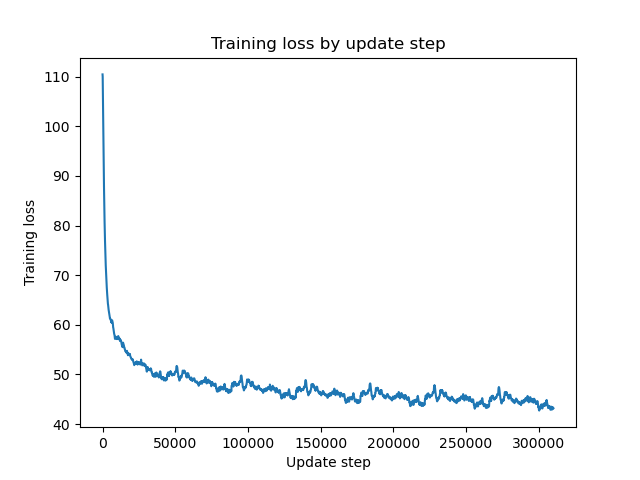
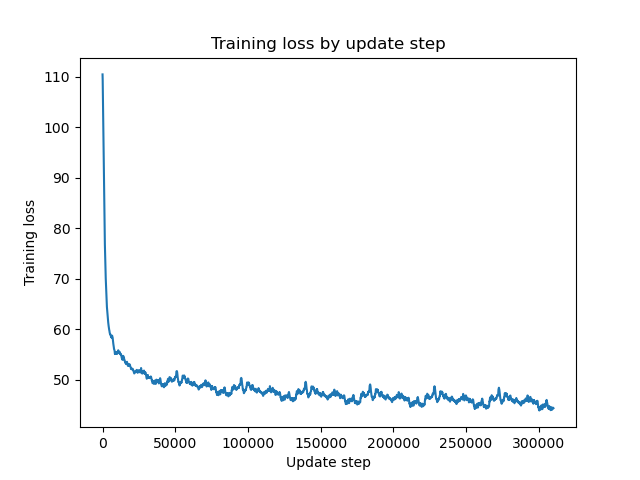
muchlowerLOSSnowprogress

diff --git a/Assignment4.py b/Assignment4.py
@@ -31,6 +31,7 @@ def createmappingfunc(file):
 
 
 def OneHotEncoding(data, mymap,begin, end):
+
     K = len(mymap)
     N = end - begin
 
@@ -44,6 +45,18 @@ def OneHotEncoding(data, mymap,begin, end):
 
 
     return EncodedData
+
+
+def softmax(x):
+    """
+    Parameters:
+        x: matrix to be transformed
+
+    Returns:
+        softmax transformation
+    """
+    a = np.exp(x - np.max(x, axis=0))
+    return a / a.sum(axis=0)
 
 
 class RNN:
@@ -61,6 +74,7 @@ class RNN:
         self.U = np.random.normal(0, 1, size = (self.m,self.K)) * sig
         self.W = np.random.normal(0, 1, size=(self.m, self.m)) * sig
         self.V = np.random.normal(0, 1, size=(self.K, self.m)) * sig
+
 
 
     def eval_RNN(self,h0,x0):   #should be correct
@@ -82,9 +96,8 @@ class RNN:
         h_t = np.tanh(a_t)                                                                        #CORRECT
         o_t = V @ h_t + c                                                                         #CORRECT
 
-        a = np.exp(o_t - np.max(o_t, axis=0))
-        p_t = a / a.sum(axis=0) #softmax
-        p_t = np.reshape(p_t, (p_t.shape[0], 1))
+
+        p_t = softmax(o_t)
 
 
 
@@ -147,12 +160,14 @@ class RNN:
 
 
             grad_W += grad_a[t].T @ h[t - 1].T  # (m,m)
-            grad_U += grad_a[t].T @ X_chars[:, t].reshape(X_chars.shape[0], 1).T  # (m,K)
+
+            grad_U += (grad_a[t].T) @ (X[:, t].reshape(X.shape[0], 1).T)  # (m,K)
             grad_b += grad_a[t].T  # (m,1)
 
         grad_U, grad_W, grad_V, grad_b, grad_c = np.clip(grad_U, -5, 5), np.clip(grad_W, -5, 5), np.clip(grad_V, -5,5), np.clip(grad_b, -5, 5), np.clip(grad_c, -5, 5)
 
         hprev = h[seq_len - 1]
+
 
 
         return grad_U, grad_W, grad_V, grad_b, grad_c, loss, hprev
@@ -253,24 +268,23 @@ class RNN:
             np.zeros_like(self.b),
             np.zeros_like(self.c)]
 
-
+        h_prev = np.zeros((RNN.m, 1))
 
         losslist = []
         lendata = len(data)
 
-        for iter in range(0,epochs):
+
+
+        for Epoch in range(0,epochs):
             for e in range(0,(lendata-seq_length),seq_length):
 
 
-                X_chars = OneHotEncoding(data, my_map, begin=e, end=e + seq_length - 2)
-                Y_chars = OneHotEncoding(data, my_map, begin=e + 1, end=e + seq_length-1)
+                X_chars = OneHotEncoding(data, my_map, begin=e, end=e + seq_length)
+                Y_chars = OneHotEncoding(data, my_map, begin=e + 1, end=e + seq_length+1)
 
 
 
-                if e == 0 and iter == 0:
-                    h_prev = np.zeros((RNN.m, 1))
-                else:
-                    h_prev = h
+
 
                 grad_U, grad_W, grad_V, grad_b, grad_c, loss, h = self.CompGradsGIT(X_chars,Y_chars,h_prev)
 
@@ -279,16 +293,25 @@ class RNN:
                 gradlist = [grad_U, grad_W, grad_V, grad_b, grad_c]
                 paramlist = [self.U, self.W, self.V, self.b, self.c]
 
-                if e == 0 and iter == 0:
+                if e == 0 and Epoch == 0:
                     smoothloss = loss
                 else:
                     smoothloss = .999 * smoothloss + .001 * loss
 
 
-                if (e % 10000) == 0:
+                for i in range(len(gradlist)):
+
+                    G[i] += np.power(gradlist[i], 2)
+
+
+                    paramlist[i] -=  (eta /  np.sqrt(G[i]+eps)) * gradlist[i]
+
+                h_prev = h
+
+                if (e/(seq_length) % 1000) == 0:
                     losslist.append(smoothloss[0,0])
                     print("\n")
-                    print("iter:", e, "loss", loss, "smoothloss", smoothloss)
+                    print("iter:", e/(seq_length), "loss", loss, "smoothloss", smoothloss)
 
 
                     text = self.synth_text(h_prev, X_chars[:,0], 200) #HERE
@@ -304,12 +327,62 @@ class RNN:
 
 
 
+
+
+
+        """
+        n = len(data)
+        nb_seq = int((n - 1) / seq_length)
+
+        smooth_loss = 0
+
+        for i in range(epochs):
+            e = 0
+            hprev = np.zeros((self.m, 1))
+            for j in range(nb_seq):
+                if j == nb_seq - 1:
+                    X = OneHotEncoding(data,my_map, e, n - 2)
+                    Y = OneHotEncoding(data,my_map, e + 1, n - 1)
+                    e = n
+                else:
+                    X = OneHotEncoding(data,my_map, e, e + seq_length-1)
+                    Y = OneHotEncoding(data,my_map, e + 1, e + seq_length)
+
+                    e += seq_length
+
+
+                grad_U, grad_W, grad_V, grad_b, grad_c, loss, h =  self.CompGradsGIT(X,Y,hprev)
+                if smooth_loss != 0:
+                    smooth_loss = 0.999 * smooth_loss + 0.001 * loss
+                else:
+                    smooth_loss = loss
+
+                gradlist = [grad_U, grad_W, grad_V, grad_b, grad_c]
+                paramlist = [self.U, self.W, self.V, self.b, self.c]
+
+
                 for i in range(len(gradlist)):
+                    G[i] += np.power(gradlist[i], 2)
 
-                    G[i] = G[i] + np.power(gradlist[i], 2)
+
+                    paramlist[i] -= np.multiply(eta / np.sqrt(G[i] + eps), gradlist[i])
+
+                hprev = h
+
+                if (j  % 1000) == 0:
+                    losslist.append(smooth_loss)
+                    print("\n")
+                    print("iter:", j , "loss", loss, "smoothloss", smooth_loss)
+
+                    text = self.synth_text(h_prev, X_chars[:, 0], 200)  # HERE
+
+                    for i in range(0, len(text)):
+                        indexone = np.where(text[:, i] == 1)[0][0]
+                        print(inv_map[indexone], end="")
+                    # print(inv_map[text[:,0]])
 
 
-                    paramlist[i] -=  (eta /  np.sqrt(G[i]+eps)) * gradlist[i]
+        """
 
 
 
@@ -322,7 +395,6 @@ class RNN:
 
 
 if __name__ == "__main__":
-
 
     #01
 
@@ -367,6 +439,6 @@ if __name__ == "__main__":
 
     #05
 
-    losslist = RNN.train(epochs= 2,eta=0.01,eps=1e-8)
+    losslist = RNN.train(epochs= 5,eta=0.01,eps=1e-8)
 
 

diff --git a/githubassignemtn4.py b/githubassignemtn4.py
@@ -355,6 +355,8 @@ class RecurrentNeuralNetwork():
                 else:
                     X = onehot_conversion(compile_output, e, e + seq_len)
                     Y = onehot_conversion(compile_output, e + 1, e + seq_len + 1)
+
+                    print(X.shape, Y.shape, "@@@@@@@2")
                     e += seq_len
 
                 grads, loss, h = self.compute_gradients(X, Y, hprev)
